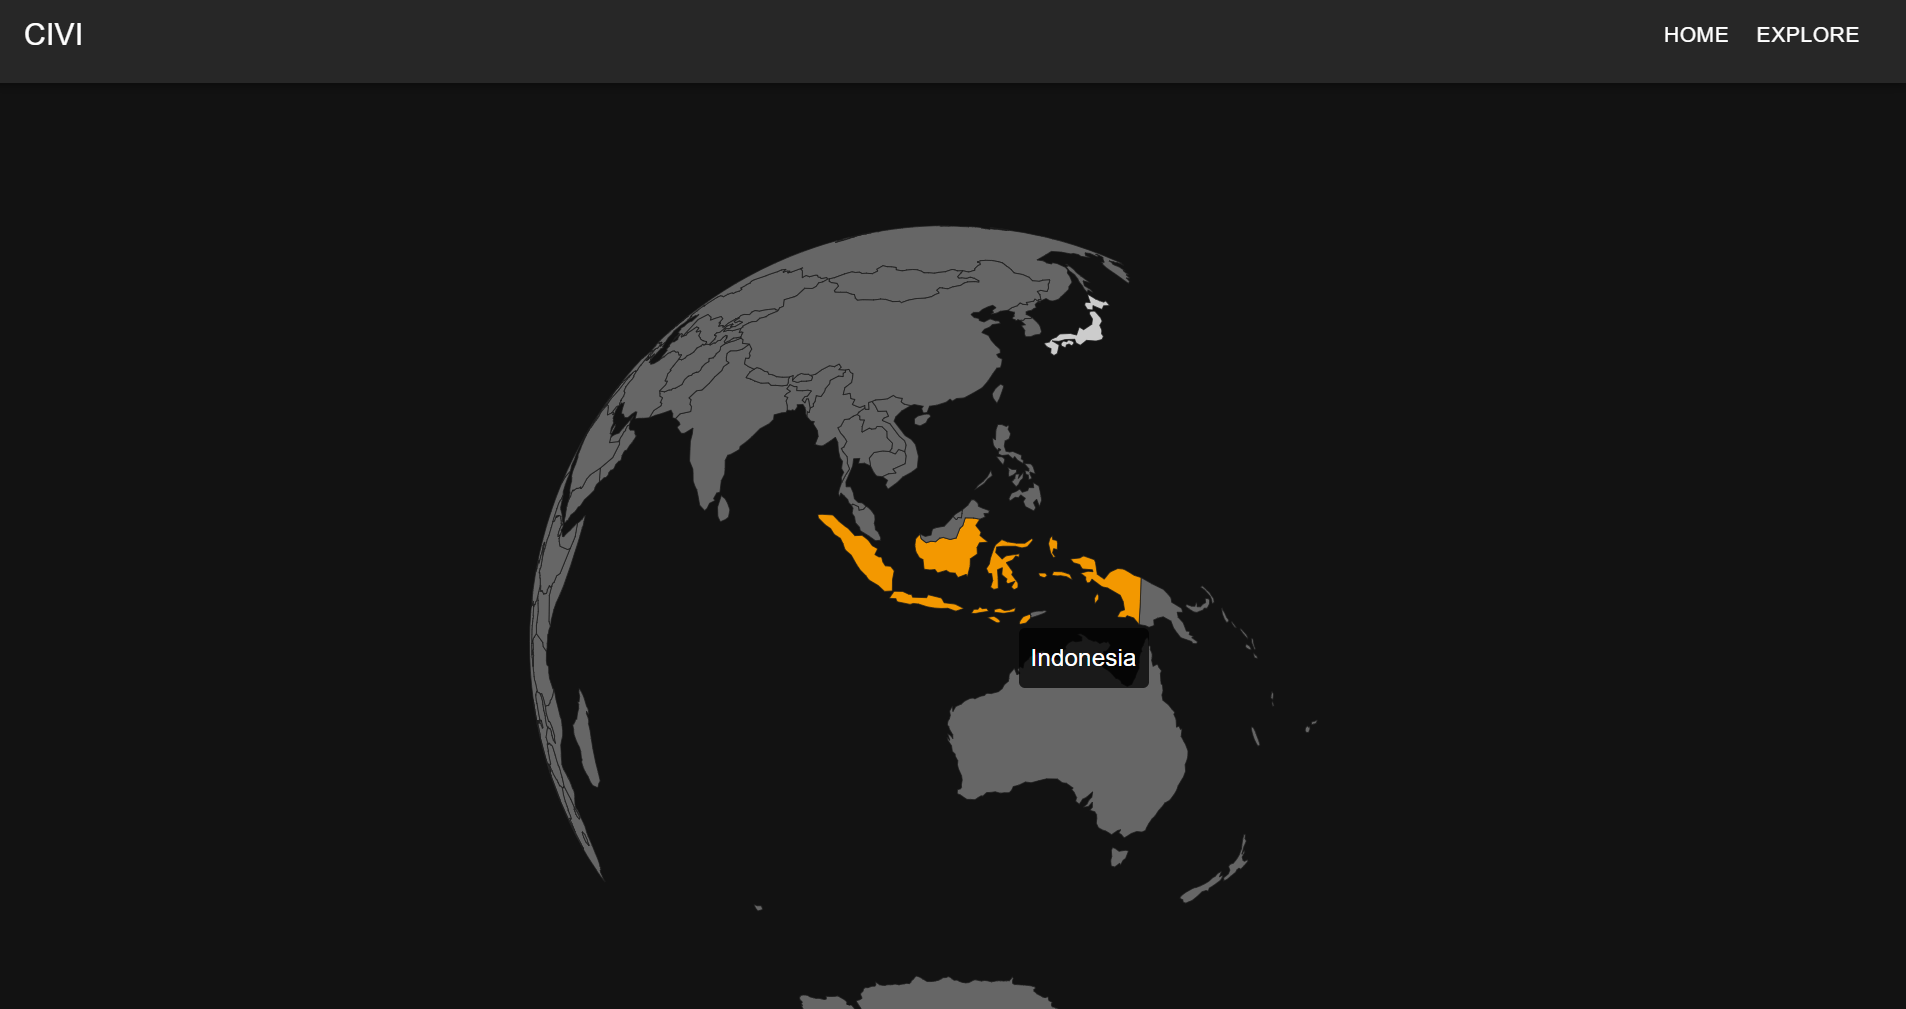
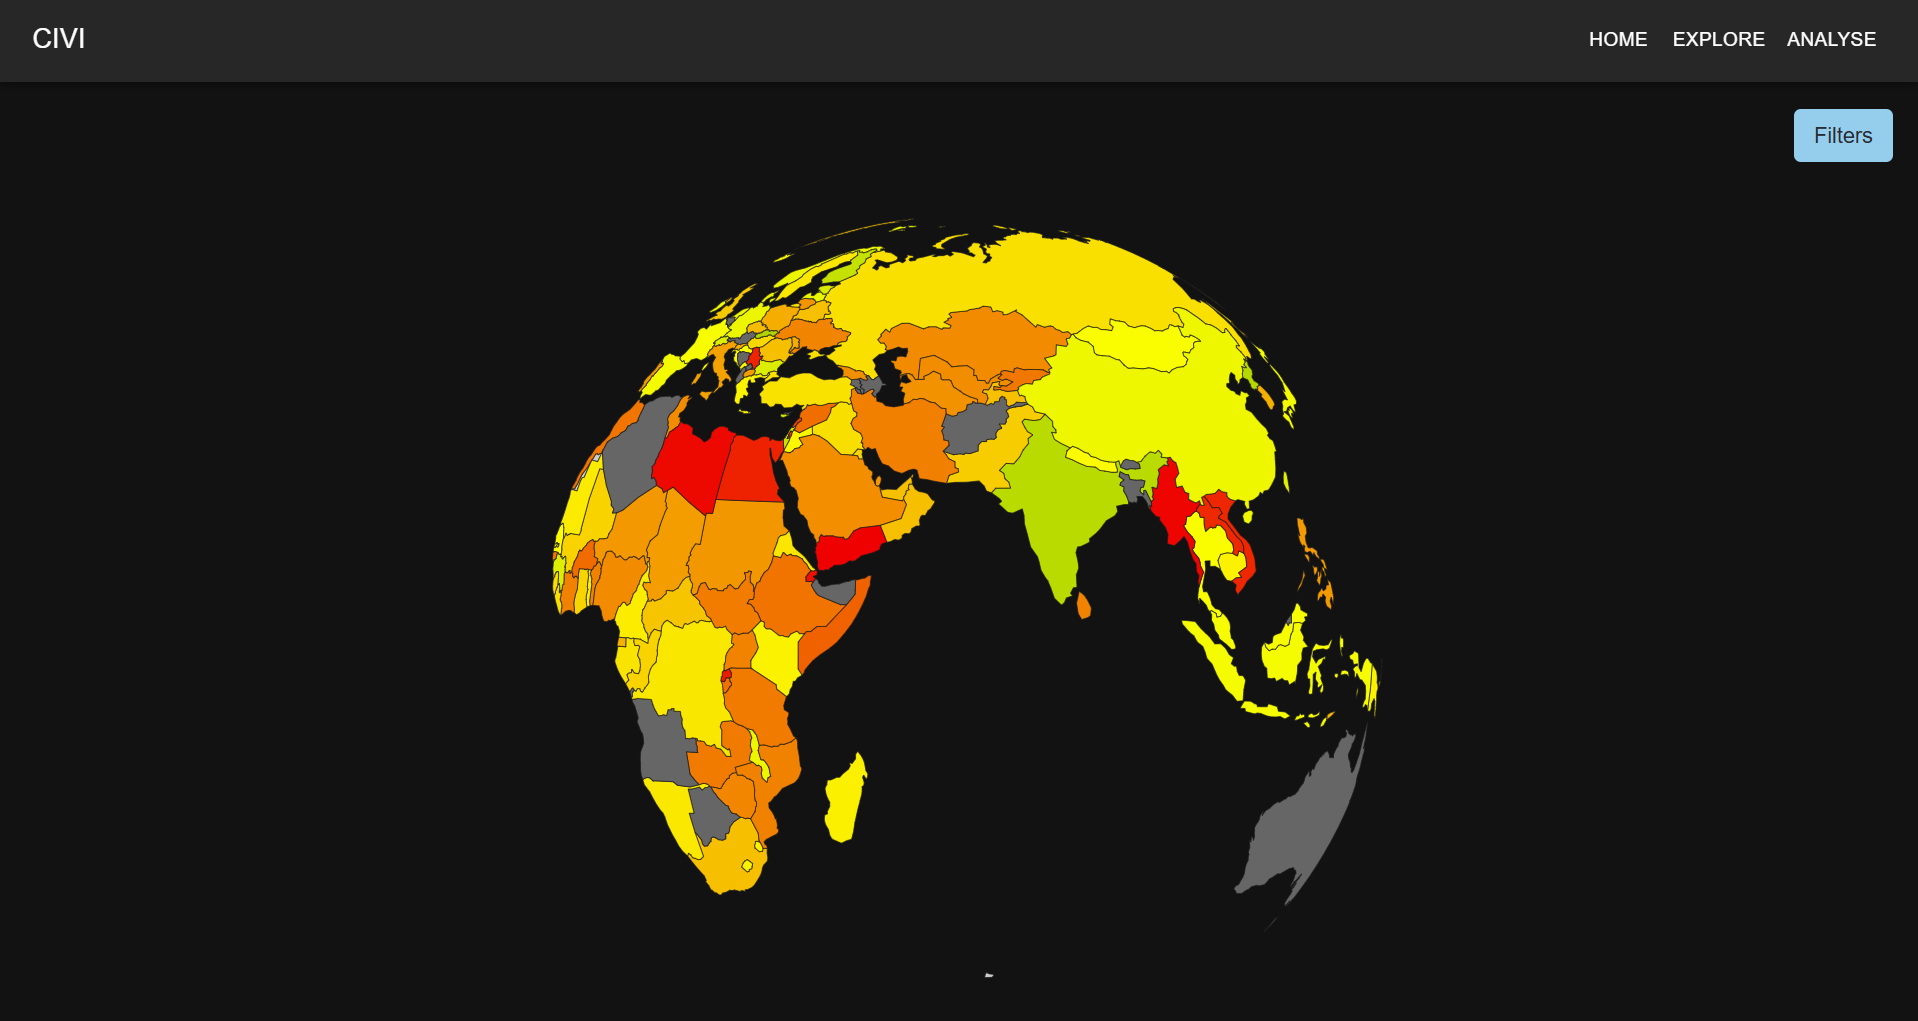
updated picture and added link to CIVI repo

diff --git a/_projects/civi.md b/_projects/civi.md
@@ -16,6 +16,8 @@ category: current
     Conceptual visualization of interconnected infrastructure networks forming the backbone of national stability.
 </div>
 
+[Checkout the CIVI GitHub repository here!](https://github.com/patrickcapaldo/civi)
+
 # Purpose
 
 The Critical Infrastructure Vitals Index (CIVI) is designed to provide a **comprehensive snapshot of a nation’s infrastructure health**. It measures a country’s performance across four key pillars - Autonomy, Resilience, Sustainability, and Effectiveness - giving policymakers, researchers, and investors a standardized framework to understand and compare infrastructure readiness globally.
